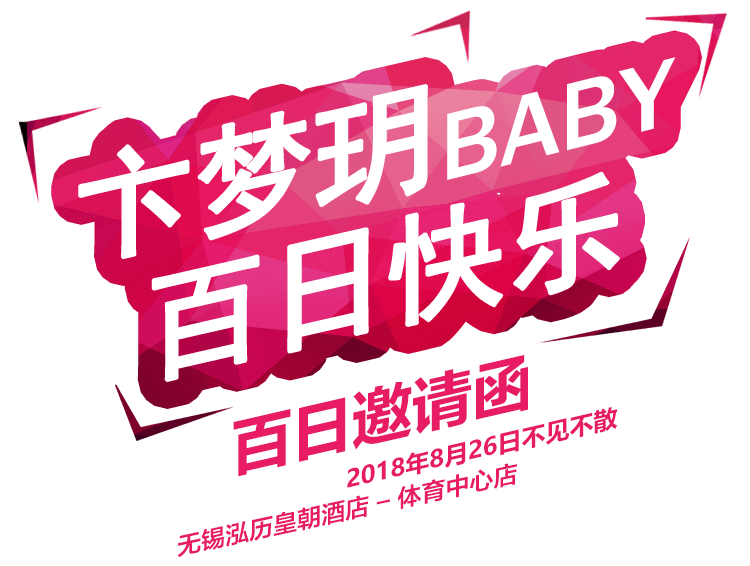
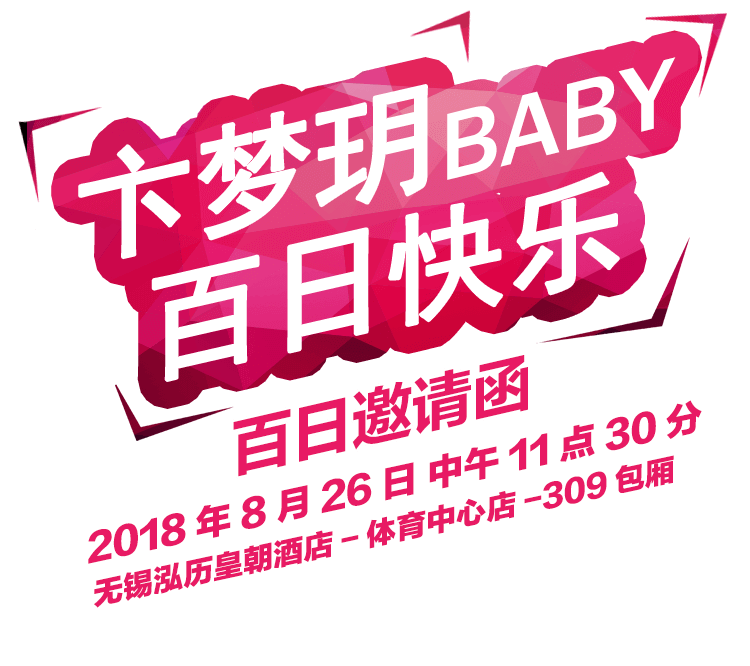
图片修改

diff --git a/public/stylesheets/birthday.css b/public/stylesheets/birthday.css
@@ -1,8 +1,8 @@
 /*
 * @Author: bxdsam
 * @Date:   2018-08-05 19:28:11
-* @Last Modified by:   xiaodong.bian
-* @Last Modified time: 2018-08-06 10:11:46
+* @Last Modified by:   bxdsam
+* @Last Modified time: 2018-08-10 21:24:50
 */
 
 /* 背景 */
@@ -192,7 +192,7 @@
   /*background: url('/images/yaoqinghan.png') no-repeat center center;*/
   background-size: 100% 100%;
   width: 10rem/* 750px */;
-  height: 7.54666667rem/* 566px */;
+  height: 8.88rem/* 666px */;
   position: absolute;
   top: 4.33333333rem/* 100px */;
   left: 50%;
